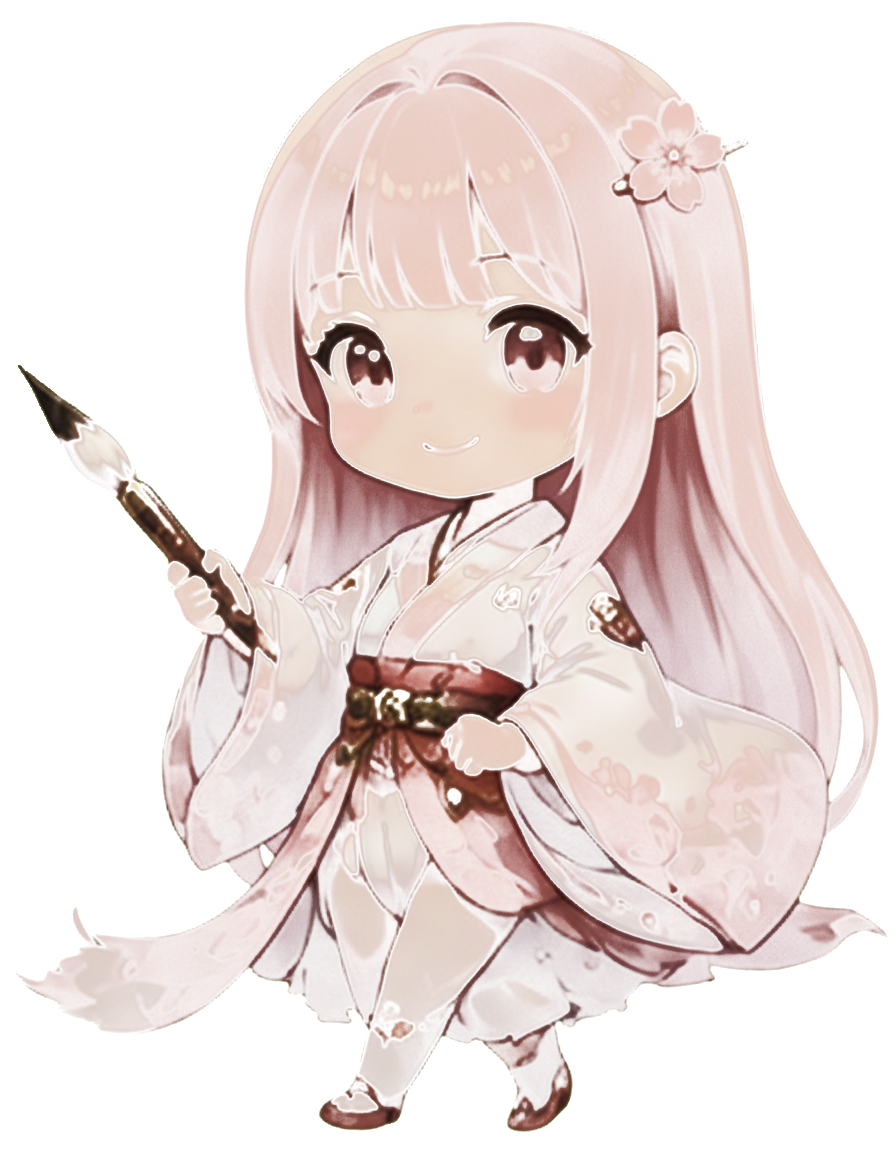
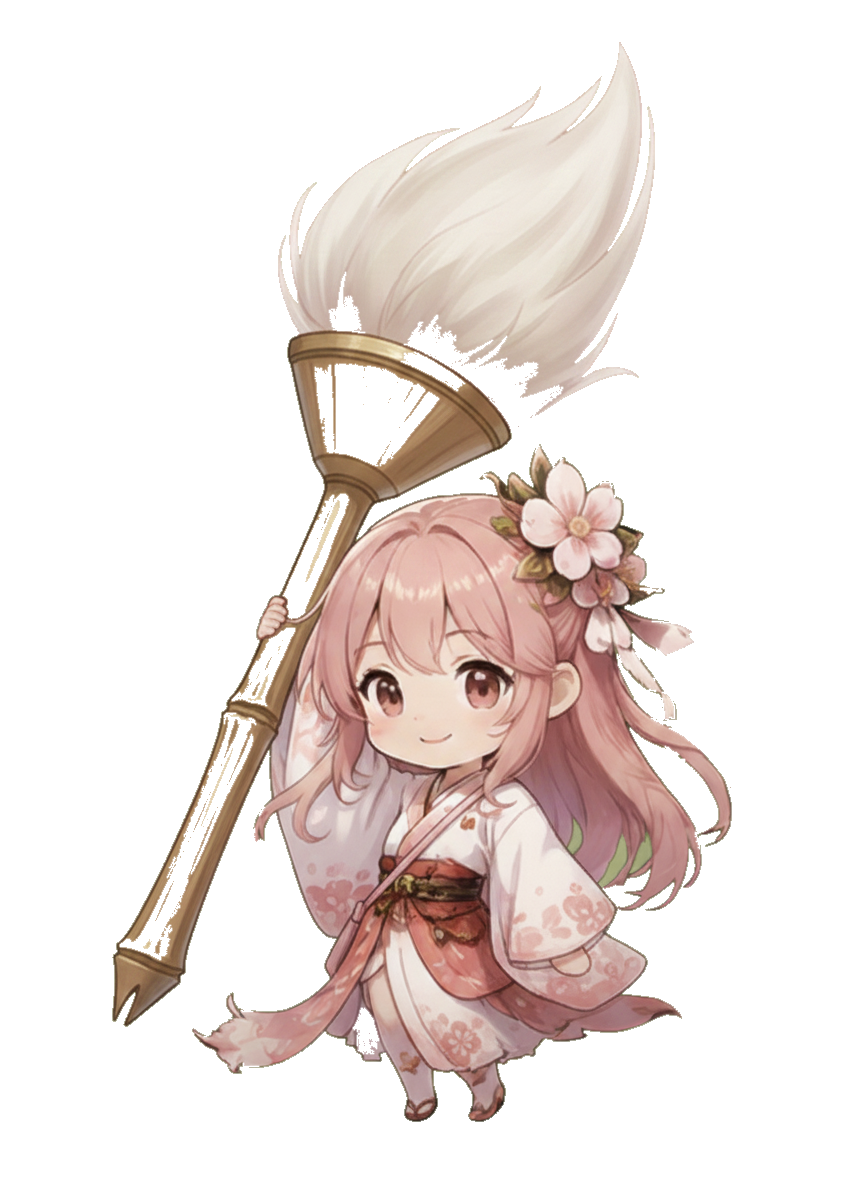
revert(ui): 桜デフォルト/まばたき/長髪竹筆/ホーム桜サイズを変更前へ戻す
hair_long_透過.png への差し替えで既定桜が肥大化・表示崩れし、長髪×竹筆の合成も
別絵に化けたため、guide_open / guide_blink / seoi/long/take.png と
HomeCoach の桜サイズ(0.40/1.12)を 1a37d32 直前の状態へ復元。柴1/柴2は問題ないため維持。

diff --git a/src/home/HomeCoach.tsx b/src/home/HomeCoach.tsx
@@ -76,10 +76,9 @@ export default function HomeCoach({ status, learned }: { status: HomeStatus; lea
     return () => { loop.stop(); sway.stop(); hop.stop(); bAlive = false; bt.forEach(clearTimeout); };
   }, [bob, dogSway, dogHop]);
 
-  // 全身絵は縦長。民族衣装/背負い筆(≒864x1184=1.37)、既定桜(hair_long_透過=896x1152≒1.286)で縦横比を分ける。
-  // 既定桜も全身立ち絵になったため幅を0.40→0.52へ拡大(レターボックスで小さくならないよう)。
-  const charW = Math.round(width * (charImg ? 0.60 : 0.52));
-  const charH = Math.round(charW * (charImg ? 1.370 : 1.286));
+  // 民族衣装/背負い筆の全身絵は縦長(≒864x1184)なので少し大きめ＋縦横比を変える。既定の案内キャラはほぼ正方形。
+  const charW = Math.round(width * (charImg ? 0.60 : 0.40));
+  const charH = Math.round(charW * (charImg ? 1.370 : 1.12));
   const bobY = bob.interpolate({ inputRange: [0, 1], outputRange: [0, -9] });
   const dogSwayDeg = dogSway.interpolate({ inputRange: [0, 1], outputRange: ['-3deg', '3deg'] });
   const dogHopY = dogHop.interpolate({ inputRange: [0, 1], outputRange: [0, -14] });
